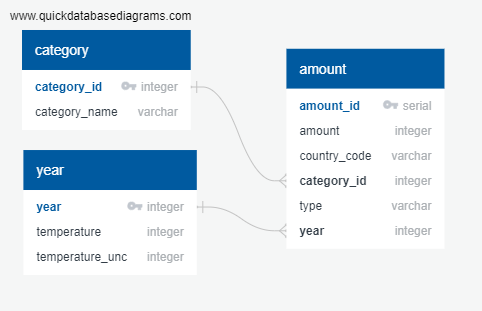
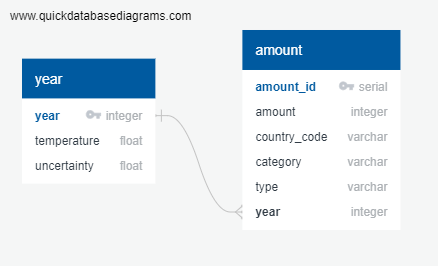
final copy of erd...

diff --git a/data.py b/data.py
@@ -36,12 +36,12 @@ YEARS = [1961+x for x in range(53)]
 # *** define functions to query database ***
 
 # load geoJSON country data
-def get_geosjon():
+def get_geojson():
     with open('Resources/countries.geojson', 'r') as data:
         return load(data)
 
-# load food/feed amounts
-def get_amounts(type='both', sum_categories=True, country_code='all'):
+# get food/feed amounts by year
+def get_amounts(type='sum', sum_categories=True, country_code='all'):
 
     # years is a key in return object and itself is a dict (object) that will hold each year as its keys
     # data = {years: {year1: 'something', ...}}
@@ -139,9 +139,36 @@ def get_amounts(type='both', sum_categories=True, country_code='all'):
 
         return data
 
-# get years queries the 
-def get_temps():
-    data = {'status': 'success: temps'}
-    return data
+# get tempertures by year 
+def get_temperatures(year='all'):
 
-print(YEARS)
+    data = {}
+
+    with Session(engine) as s:
+
+        # otpion one: 
+        if year == 'all':
+
+            years = data['years']
+            years = {}
+
+            for year in YEARS:
+
+                ys = s.query(Year).filter(Year.year==year).all()
+                years[year] = {}
+                years[year]['tempurature'] = sum([y.temperature for y in ys])
+                years[year]['uncertainty'] = sum([y.uncertainty for y in ys])
+        
+            # reciept status
+            data['status'] = 'success: temps for all years'
+    
+        else:
+
+            s.query(Year).filter(Year.year==year).all()
+            data['temperature'] = sum([y.temperature for y in ys])
+            data['uncertainty'] = sum([y.uncertainty for y in ys])
+
+            # reciept status
+            data['status'] = f'success: temps for {year}'
+    
+    return data

diff --git a/app.py b/app.py
@@ -1,7 +1,7 @@
+from email.policy import default
 from flask import Flask, render_template, request
 
-from data import get_amounts as ga
-from data import get_temps as gt
+from data import get_geojson, get_amounts, get_temperatures
 
 app = Flask(__name__)
 
@@ -11,23 +11,23 @@ def index():
     return render_template('index.html')
 
 # data route which serves data from database
-@app.route('/api/v1.0/temps')
+@app.route('/api/v1.0/geaJSON')
+def geojson():
+    return get_geojson()
+
+@app.route('/api/v1.0/amounts/sums')
+def amounts_cats():
+    type = request.args.get('type', default='food')
+    return get_amounts(type='sum', sum_categories=True, country_code=country_code)
+
+@app.route('/api/v1.0/amounts/categories')
+def amounts_cats():
+    type = request.args.get('type', default='food')
+    return get_amounts(type=type, sum_categories=sum, country_code=country_code)
+
+@app.route('/api/v1.0/temperatures')
 def temps():
-
-    # call get_temps method
-    temps = gt()
-
-    # return data
-    return temps
-
-@app.route('/api/v1.0/foods')
-def foods():
-
-    # call get_foods method
-    foods = gf()
-
-    # return data
-    return foods
+    pass
 
 if __name__ == '__main__':
     app.run(debug=True)
